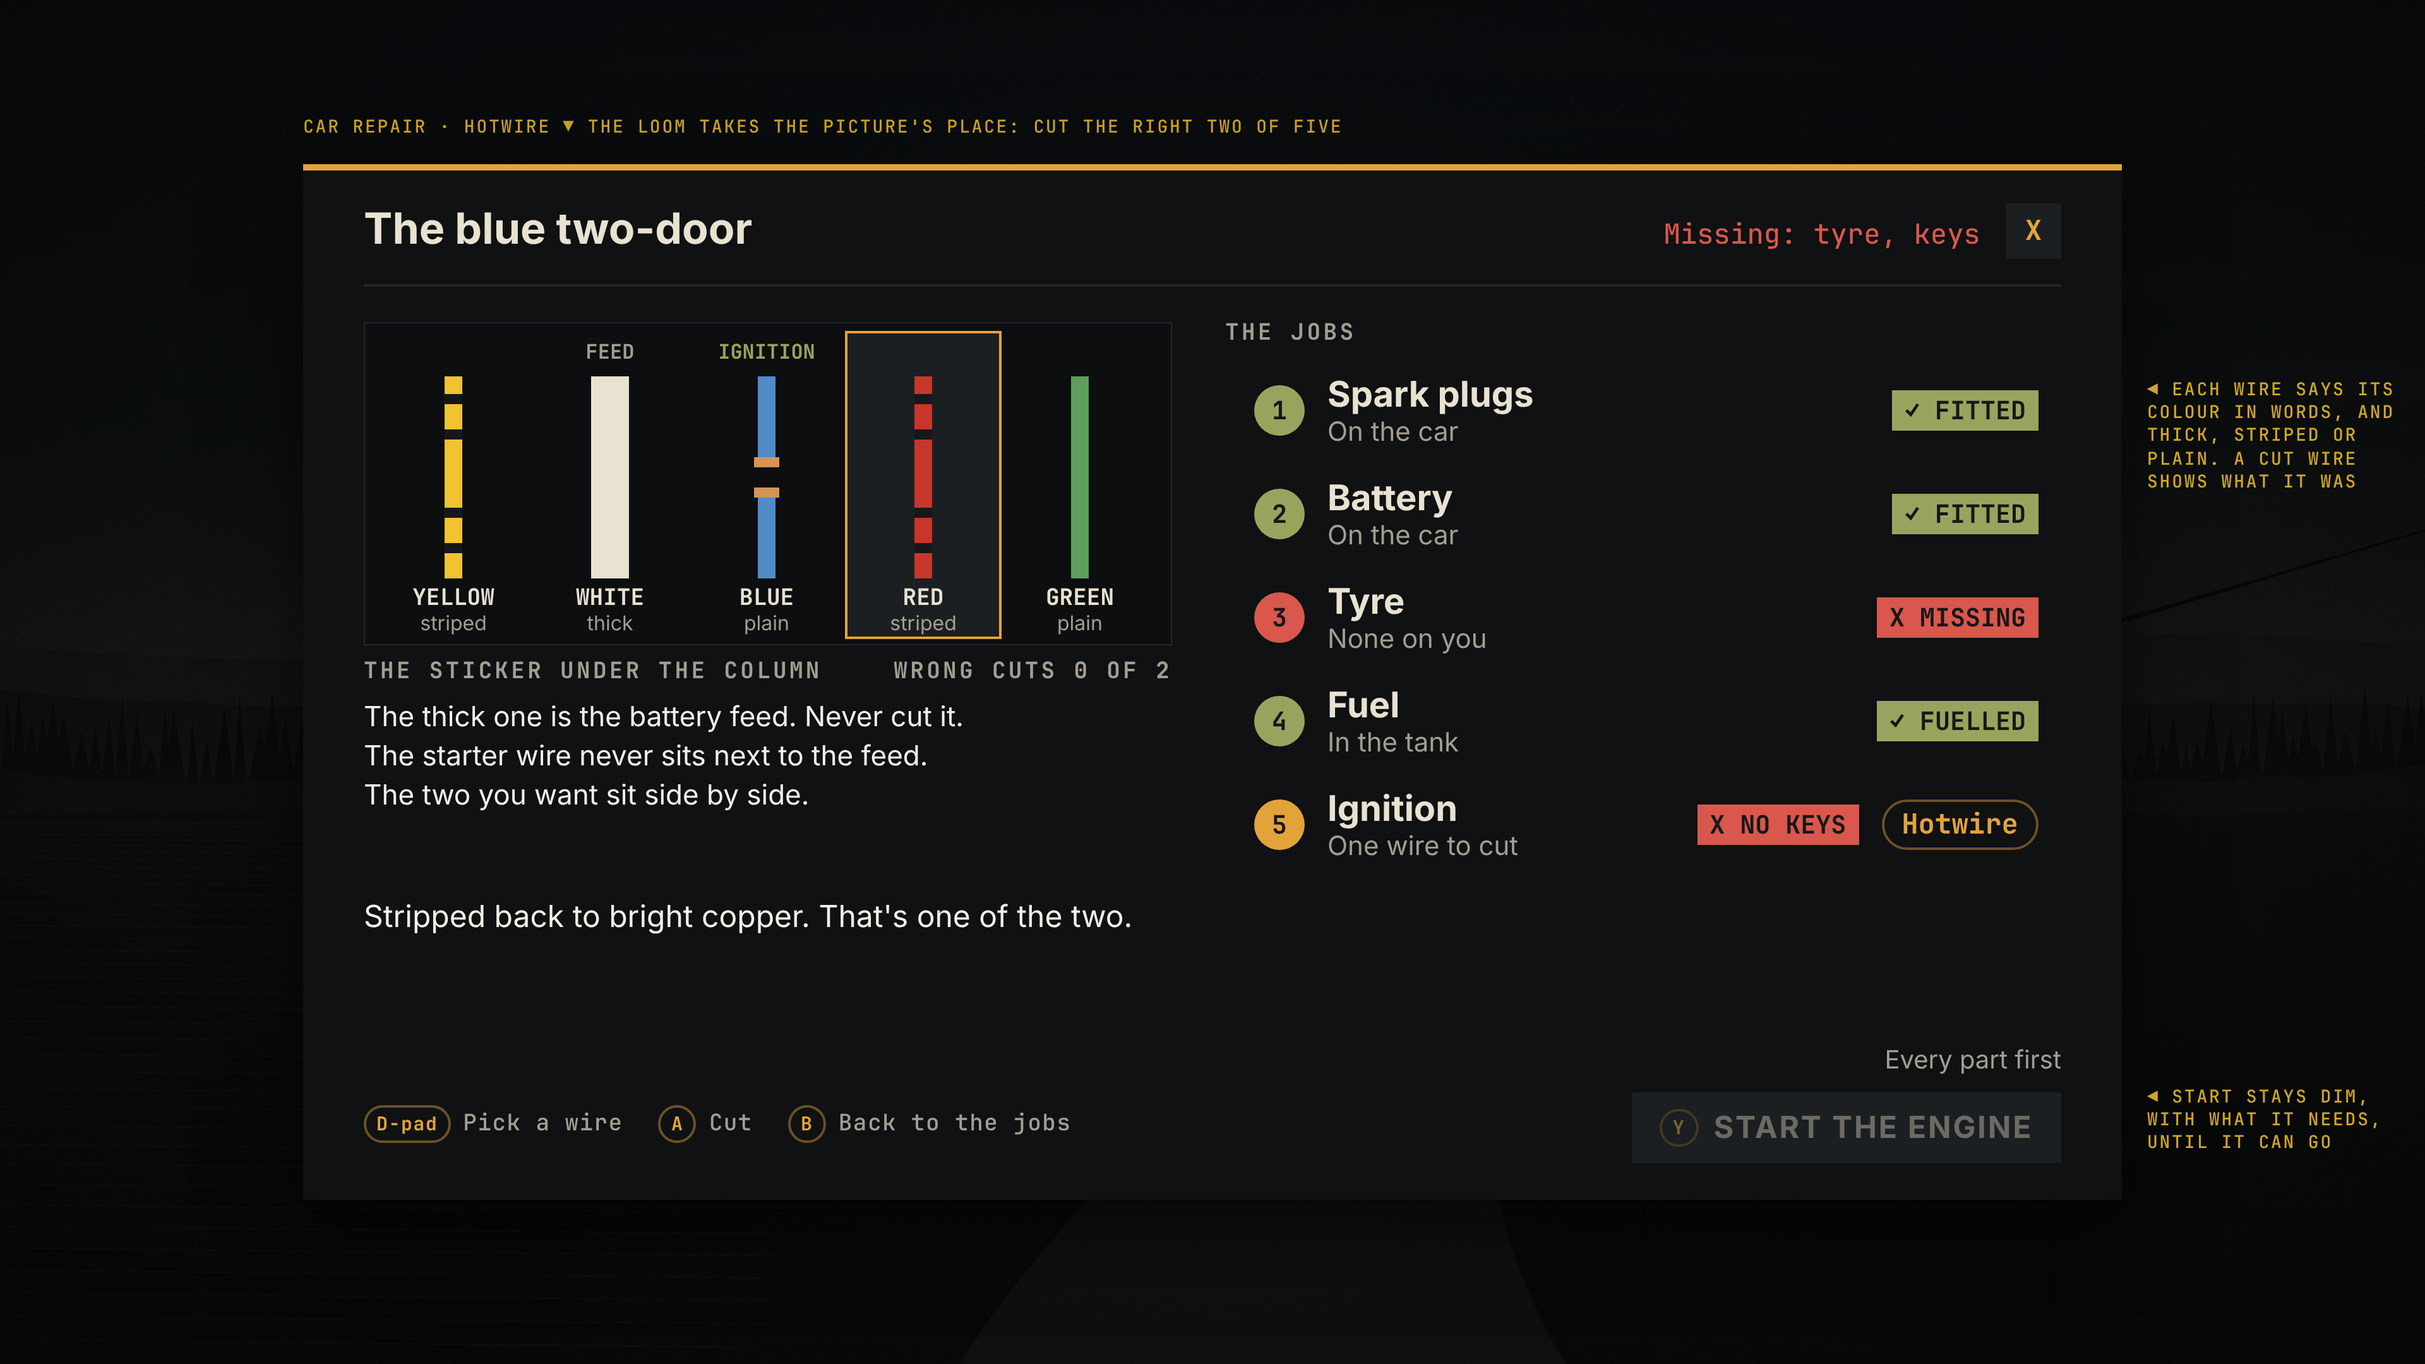
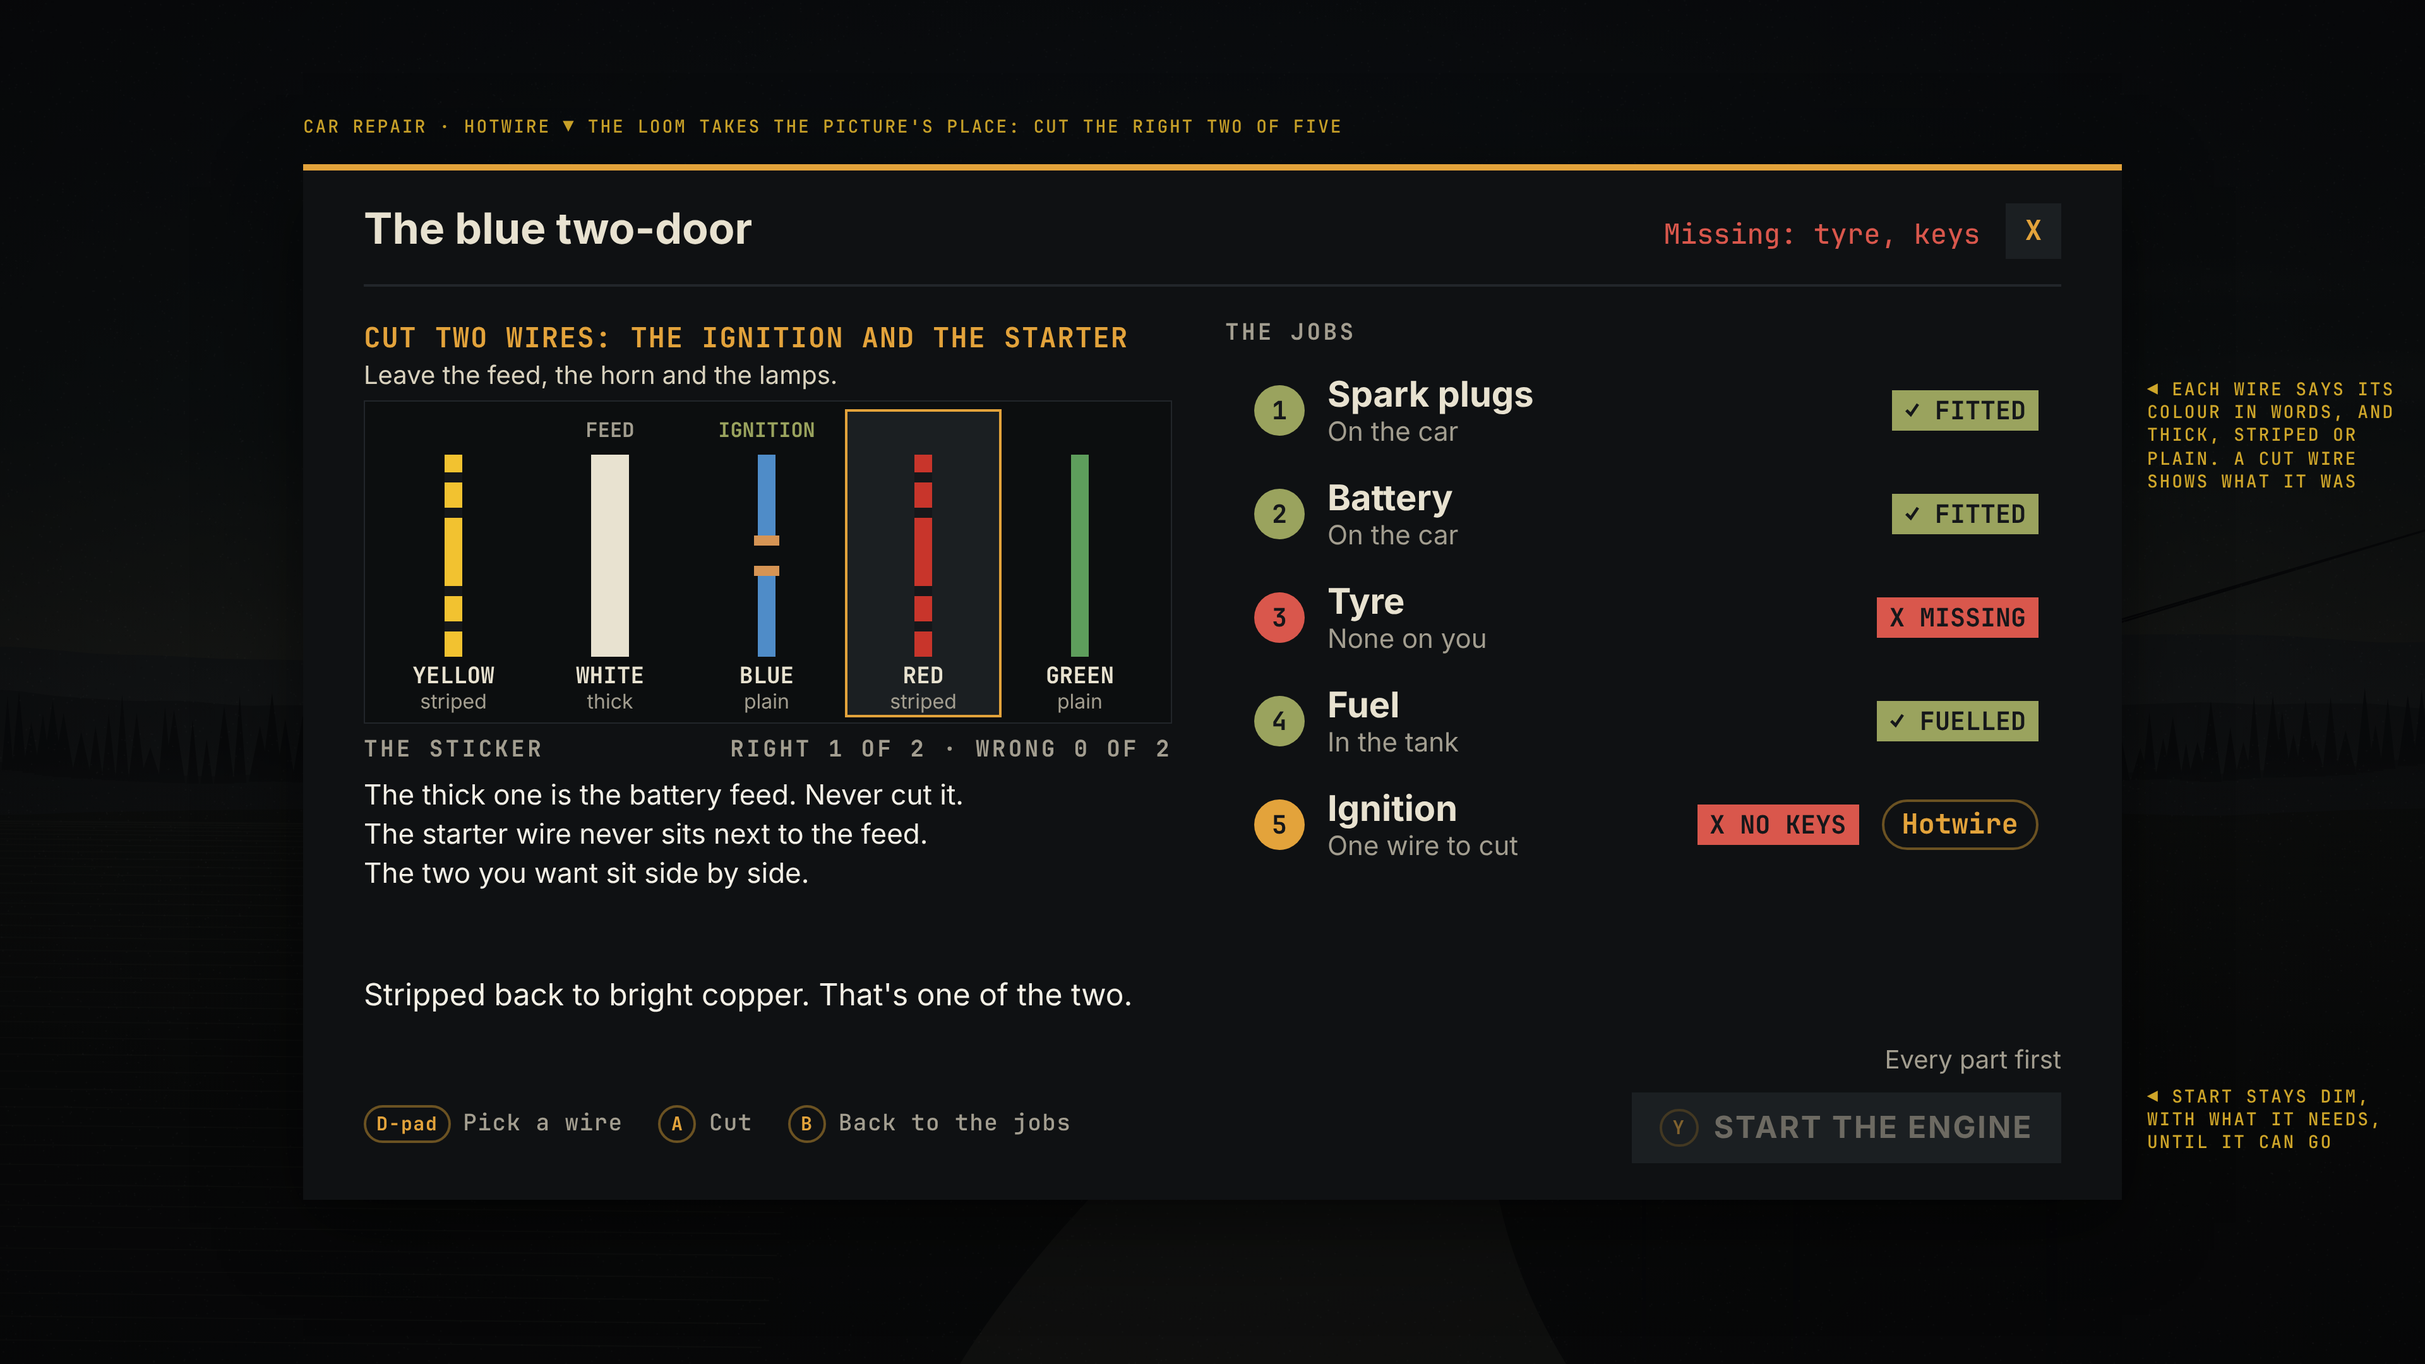
Hotwire's loom: the goal said in plain words over the wires, right and wrong cuts counted
A stopgap: the author found the loom too wordy and chose a simpler game
(follow the wire), which replaces it next.

Claude-Session: https://claude.ai/code/session_01WEoeeFco7mrejNFdVvPPxW

diff --git a/UI/Mockups/car_hotwire.html b/UI/Mockups/car_hotwire.html
@@ -61,7 +61,9 @@
   .start .pk { opacity: .5; }
 
   /* the loom, in the picture's place */
-  .loom { position: absolute; left: 48px; top: 120px; width: 640px; height: 256px; background: #0c0e0f; border: 1px solid #22262a; }
+  .goal { position: absolute; left: 48px; top: 120px; width: 640px; font: 700 22px/1.2 'JetBrains Mono', monospace; color: #E3A33B; letter-spacing: .04em; }
+  .goalsub { position: absolute; left: 48px; top: 150px; width: 640px; font: 400 20px/1.2 Inter, 'Segoe UI', sans-serif; color: #D9D2BE; }
+  .loom { position: absolute; left: 48px; top: 182px; width: 640px; height: 256px; background: #0c0e0f; border: 1px solid #22262a; }
   .w { position: absolute; top: 8px; width: 120px; height: 240px; }
   .w:nth-child(1) { left: 10px; } .w:nth-child(2) { left: 134px; } .w:nth-child(3) { left: 258px; } .w:nth-child(4) { left: 382px; } .w:nth-child(5) { left: 506px; }
   .w.on { background: var(--row); outline: 2px solid var(--acc); }
@@ -77,9 +79,9 @@
   .w.cut .core .a::after { bottom: -2px; } .w.cut .core .b::before { top: -2px; }
   .nm { position: absolute; left: 0; right: 0; top: 198px; text-align: center; font: 700 18px/1.3 'JetBrains Mono', monospace; color: var(--bone); }
   .kd { position: absolute; left: 0; right: 0; top: 220px; text-align: center; font: 400 16px/1.2 Inter, sans-serif; color: var(--dim); }
-  .loomlabel { position: absolute; left: 48px; top: 388px; width: 640px; display: flex; justify-content: space-between; font: 700 18px/1 'JetBrains Mono', monospace; color: var(--dim); letter-spacing: .12em; }
-  .clues { position: absolute; left: 48px; top: 418px; width: 640px; font: 400 22px/1.4 Inter, 'Segoe UI', sans-serif; color: var(--spoken); }
-  .loomstatus { top: 574px; }
+  .loomlabel { position: absolute; left: 48px; top: 450px; width: 640px; display: flex; justify-content: space-between; font: 700 18px/1 'JetBrains Mono', monospace; color: var(--dim); letter-spacing: .12em; }
+  .clues { position: absolute; left: 48px; top: 480px; width: 640px; font: 400 22px/1.4 Inter, 'Segoe UI', sans-serif; color: var(--spoken); }
+  .loomstatus { top: 636px; }
 
   .callout { position: absolute; font: 600 14px/1.3 'JetBrains Mono', Consolas, monospace; color: rgba(242,194,48,.85); letter-spacing: .1em; }
 </style>
@@ -94,6 +96,8 @@
     <div class="head"><b>The blue two-door</b><span>Missing: tyre, keys</span></div>
     <div class="close">X</div>
 
+    <div class="goal">CUT TWO WIRES: THE IGNITION AND THE STARTER</div>
+    <div class="goalsub">Leave the feed, the horn and the lamps.</div>
     <div class="loom">
       <div class="w striped" style="--c:#F2C230"><span class="lab "></span><span class="core"><i class="a"></i><i class="m"></i><i class="b"></i></span><span class="nm">YELLOW</span><span class="kd">striped</span></div>
       <div class="w thick" style="--c:#E8E2D0"><span class="lab ">FEED</span><span class="core"><i class="a"></i><i class="m"></i><i class="b"></i></span><span class="nm">WHITE</span><span class="kd">thick</span></div>
@@ -101,7 +105,7 @@
       <div class="w striped on" style="--c:#C8352B"><span class="lab "></span><span class="core"><i class="a"></i><i class="m"></i><i class="b"></i></span><span class="nm">RED</span><span class="kd">striped</span></div>
       <div class="w " style="--c:#5E9E5C"><span class="lab "></span><span class="core"><i class="a"></i><i class="m"></i><i class="b"></i></span><span class="nm">GREEN</span><span class="kd">plain</span></div>
     </div>
-    <div class="loomlabel"><span>THE STICKER UNDER THE COLUMN</span><span>WRONG CUTS 0 OF 2</span></div>
+    <div class="loomlabel"><span>THE STICKER</span><span>RIGHT 1 OF 2 · WRONG 0 OF 2</span></div>
     <div class="clues">The thick one is the battery feed. Never cut it.<br>The starter wire never sits next to the feed.<br>The two you want sit side by side.</div>
     <div class="status loomstatus">Stripped back to bright copper. That's one of the two.</div>
 

diff --git a/scripts/Game/ReforgerZ/UI/RZ_CarMenu.c b/scripts/Game/ReforgerZ/UI/RZ_CarMenu.c
@@ -20,7 +20,7 @@ class RZ_CarMenu : RZ_MenuBase
 	protected static const float CUT_GAP = 0.6;			// the server takes a pick at most every 0.5 s
 	protected static const float STATUS_X = 48;
 	protected static const float STATUS_Y = 392;		// CarStatus: under the car picture
-	protected static const float STATUS_Y_LOOM = 574;	// and under the loom's sticker
+	protected static const float STATUS_Y_LOOM = 636;	// and under the loom's sticker
 	protected static const float WIRE_BOX = 120;		// a wire's box, across
 	protected static const float WIRE_THIN = 14;
 	protected static const float WIRE_THICK = 30;
@@ -589,6 +589,9 @@ class RZ_CarMenu : RZ_MenuBase
 	{
 		RZ_UIW.Show(m_wRoot, "CarView", !m_bLoom);
 		RZ_UIW.Show(m_wRoot, "Loom", m_bLoom);
+		// The goal in plain words, over the wires: which two to cut, and what to leave
+		RZ_UIW.Show(m_wRoot, "LoomGoal", m_bLoom);
+		RZ_UIW.Show(m_wRoot, "LoomGoalSub", m_bLoom);
 		float statusY = STATUS_Y;
 		if (m_bLoom)
 			statusY = STATUS_Y_LOOM;
@@ -609,7 +612,7 @@ class RZ_CarMenu : RZ_MenuBase
 		RZ_UIW.SetText(m_wRoot, "PromptsText", "LEFT / RIGHT  PICK A WIRE    A  CUT    B  BACK TO THE JOBS");
 
 		int strikes = RZ_UIText.Int(m_aLoomHead, 1);
-		RZ_UIW.SetText(m_wRoot, "LoomStrikes", string.Format("WRONG CUTS %1 OF %2", strikes, RZ_UIText.Int(m_aLoomHead, 2)));
+		RZ_UIW.SetText(m_wRoot, "LoomStrikes", string.Format("RIGHT %1 OF 2 · WRONG %2 OF %3", RZ_UIText.Int(m_aLoomHead, 3), strikes, RZ_UIText.Int(m_aLoomHead, 2)));
 		Color strikeColour = RZ_UIColor.Dim();
 		if (strikes > 0)
 			strikeColour = ToneColour(RZ_Cars.TONE_MISSING);

diff --git a/docs/WORKBENCH_SETUP.md b/docs/WORKBENCH_SETUP.md
@@ -2187,8 +2187,8 @@ quartermaster's Buy actions, **Craft row layout** for a workbench's Make actions
 | `UI/RZ_UIData.c:1223` | a `CanvasWidget` made in script (`WorkspaceWidget.CreateWidget`) fills the map's root with anchors 0 to 1, and its draw commands are in screen pixels from its top left, so the tracked job's search area (a filled polygon and a 2-wide edge line) sits on its rough circle and keeps its size with the zoom | The search area is missing or off its spot: its label still sits under where it should be, and the tracker gives the rough area in words. Report what shows |
 | `UI/RZ_ObjectMenu.c:328` | `FrameSlot.SetSize` on the object menu's centred panel (anchor and alignment 0.5) keeps it centred as it grows for [the status strip](UI.md#the-status-strip-and-locked-rows) (940 tall) and shrinks without one (810) | The panel jumps off-centre or keeps one height: set its slot to 1,200 × 940 in `RZ_ObjectMenu.layout` and remove the `SetSize` line; things without a strip then have a gap above their text |
 | `UI/RZ_CraftMenu.c:384` | the same on the crafting screen's panel: 960 tall at a stove (the strip), 858 at a workbench | As above, with `RZ_CraftMenu.layout` at 1,600 × 960 |
-| `UI/RZ_CarMenu.c:596` | `FrameSlot.SetPos` moves the car repair screen's `CarStatus` text (a frame slot, anchored top left) from under the picture (48, 392) to under the loom's sticker (48, 574) and back | What a cut said prints over the sticker's lines: make `Loom` shorter in `RZ_CarMenu.layout`, or give the loom its own status text and hide `CarStatus` while it's up |
-| `UI/RZ_CarMenu.c:698` | `FrameSlot.SetPos` and `SetSize` on an image in a frame place and size it as the layout's position and size would: the loom's wires (`WireTopN`, `WireMidN`, `WireBotN`, 30 wide for the thick feed) and their cut ends | Every wire is 14 wide where the layout put it and the feed looks like the rest (it still says "thick" and FEED): add a second, 30-wide set of bars to `RZ_CarMenu.layout` and show those for the feed |
+| `UI/RZ_CarMenu.c:599` | `FrameSlot.SetPos` moves the car repair screen's `CarStatus` text (a frame slot, anchored top left) from under the picture (48, 392) to under the loom's sticker (48, 636) and back | What a cut said prints over the sticker's lines: make `Loom` shorter in `RZ_CarMenu.layout`, or give the loom its own status text and hide `CarStatus` while it's up |
+| `UI/RZ_CarMenu.c:701` | `FrameSlot.SetPos` and `SetSize` on an image in a frame place and size it as the layout's position and size would: the loom's wires (`WireTopN`, `WireMidN`, `WireBotN`, 30 wide for the thick feed) and their cut ends | Every wire is 14 wide where the layout put it and the feed looks like the rest (it still says "thick" and FEED): add a second, 30-wide set of bars to `RZ_CarMenu.layout` and show those for the feed |
 
 ## 7. Log lines to check
 
@@ -4176,9 +4176,11 @@ admin; [the spike](#traces-the-workbench-spike-phase-0) first for the decals)
 - [ ] **The hotwire's loom** (**Interactions > Cars > Wire cutting** on, the default), with a pad:
   on a car with no keys pick Ignition, **Hotwire**. The loom takes the picture's place: five wires,
   each with its colour in words and "thick", "striped" or "plain" under it, the thick one labelled
-  FEED, three lines on the sticker (the feed's, and two that settle it) and "WRONG CUTS 0 OF 2";
-  what the last cut said sits under the sticker, not over it (VERIFY `UI/RZ_CarMenu.c:596`), and the
-  feed is drawn thicker than the rest (VERIFY `UI/RZ_CarMenu.c:698`). The footer reads A **Cut**, B
+  FEED, the goal over the wires ("CUT TWO WIRES: THE IGNITION AND THE STARTER", then what to
+  leave), three lines on the sticker (the feed's, and two that settle it) and "RIGHT 0 OF 2 · WRONG
+  0 OF 2", neither line clipped or over the wires;
+  what the last cut said sits under the sticker, not over it (VERIFY `UI/RZ_CarMenu.c:599`), and the
+  feed is drawn thicker than the rest (VERIFY `UI/RZ_CarMenu.c:701`). The footer reads A **Cut**, B
   **Back to the jobs**. Left and right move the amber outline; A on the feed only says it's the
   feed. Work the two lines out and cut the two: the first shows copper ends and its name, the second
   hotwires the car ("A spark, a cough from the starter. The wires are live."), the loom goes and the

diff --git a/UI/LAYOUTS.md b/UI/LAYOUTS.md
@@ -678,7 +678,9 @@ Frame (root, full screen)
    │     ├─ Panel  MarkerRingN   the frame's size, border, hidden unless the job is selected (tinted)
    │     ├─ Image  MarkerDotN    32 × 32 at (7, 7), tinted by the job's state
    │     └─ Text   (MarkerNumN)  over the dot, mono bold 20, #15171A, "1" … "5"
-   ├─ Frame  Loom           at (48, 120), 640 × 450, hidden: the loom, shown in CarView's place at a hotwire
+   ├─ Text   LoomGoal       at (48, 120), 640 × 28, mono bold 22, amber, hidden: "CUT TWO WIRES: THE IGNITION AND THE STARTER", shown with the loom
+   ├─ Text   LoomGoalSub    at (48, 150), 640 × 26, condensed 20, #D9D2BE, hidden: "Leave the feed, the horn and the lamps.", shown with the loom
+   ├─ Frame  Loom           at (48, 182), 640 × 450, hidden: the loom, shown in CarView's place at a hotwire
    │  ├─ Image  (LoomBg)      640 × 256, #0C0E0F, and Panel (LoomLine), its #2A2E31 border
    │  ├─ Frame  WireBox0 … WireBox4   120 × 240 each at (10 + 124 × N, 8): one wire
    │  │  ├─ Image  WireBgN      the box's size, #1B1F22, shown on the picked wire
@@ -694,8 +696,8 @@ Frame (root, full screen)
    │  │  ├─ Text   WireKindN    at (0, 220), regular 16, centred, dim: "thick", "striped" or "plain"
    │  │  ├─ Panel  WireFocusN   the box's size, amber border, shown on the picked wire
    │  │  └─ Button WireN        the box's size, on top, no children: a click cuts the wire (its tag is N)
-   │  ├─ Text   (LoomLabel)   at (0, 268), mono bold 18, dim, "THE STICKER UNDER THE COLUMN"
-   │  ├─ Text   LoomStrikes   right-aligned, ending at (640, 268), mono bold 18 ("WRONG CUTS 0 OF 2", red once above 0)
+   │  ├─ Text   (LoomLabel)   at (0, 268), mono bold 18, dim, "THE STICKER"
+   │  ├─ Text   LoomStrikes   right-aligned, ending at (640, 268), mono bold 18 ("RIGHT 0 OF 2 · WRONG 0 OF 2", red once a cut was wrong)
    │  └─ Text   LoomClues     at (0, 298), 640 × 150, condensed 22, #F4F0E6, wraps: the sticker's lines
    ├─ Text   CarStatus      at (48, 392), 640 × 300, regular 24, #F4F0E6, wraps: what the last job said (hidden when
    │                        empty). The script moves it to (48, 574) while the loom is up

diff --git a/docs/UI.md b/docs/UI.md
@@ -790,8 +790,10 @@ engine** sits bottom right, dim with what it still needs until it can go.
 **The loom** (`car_hotwire.html`). **Hotwire** on a car with no keys puts the loom under the
 steering column in the picture's place ([DESIGN.md](DESIGN.md#hotwiring-the-loom)): five wires side
 by side, each drawn in its colour with the colour's name under it and "thick", "striped" or "plain"
-under that, so no two are told apart by colour alone. The thick one is labelled FEED. Under the
-wires, the sticker's lines and "WRONG CUTS 0 OF 2"; under those, what the last cut said. A cut wire
+under that, so no two are told apart by colour alone. Over the wires, the goal in plain words:
+**CUT TWO WIRES: THE IGNITION AND THE STARTER**, and under it "Leave the feed, the horn and the
+lamps." The thick one is labelled FEED. Under the wires, the sticker's lines and the count
+"RIGHT 0 OF 2 · WRONG 0 OF 2"; under those, what the last cut said. A cut wire
 shows its gap with bright copper ends (one of the two) or sooty ones (a wrong one) and is labelled
 with what it was. The picked wire has an amber outline. The jobs stay on the right, none lit. Back
 returns to the jobs and leaves the loom as it is.

diff --git a/docs/DESIGN.md b/docs/DESIGN.md
@@ -2863,7 +2863,9 @@ feed. Two of the other four carry a stripe. Two wires start the car, the ignitio
 starter wire; one is the horn and one the dash lamps. A sticker under the column carries two lines
 ("The starter wire never sits next to the feed.", "The two you want sit side by side."). The loom
 is rolled until two true lines together leave only one pair of wires, neither line enough alone,
-so it's worked out, never guessed and never rushed: there's no timer.
+so it's worked out, never guessed and never rushed: there's no timer. The screen says the goal
+over the wires (cut two, the ignition and the starter; leave the feed, the horn and the lamps) and
+counts the right and the wrong cuts.
 
 | You cut | What happens |
 |---|---|
